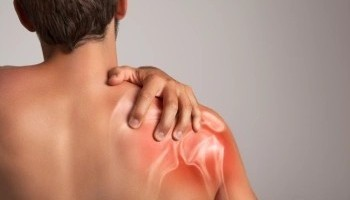
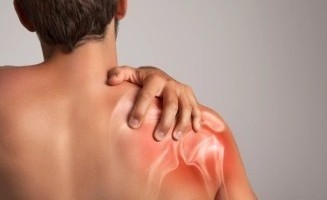
project 9.5

diff --git a/Proyecto/Informe final.md b/Proyecto/Informe final.md
@@ -57,6 +57,11 @@ Se propone un sistema basado en señales EMG y un modelo de clasificación tipo 
 ## **5. Materiales y Métodos**
 
 ### **5.1 Base de datos utilizada**
+
+<p align="center">
+    <img src="Imágenes/img_base.jpg" width='600'>
+</p>
+
 Se empleó el dataset público **A Comprehensive Dataset of Surface Electromyography and Self-Perceived Fatigue Levels for Muscle Fatigue Analysis**, que contiene señales EMG de 13 participantes realizando distintos movimientos de flexión con pesos ligeros [2].  
 Se registraron señales de bíceps braquial (derecho e izquierdo) y de las tres porciones del deltoides.
 
@@ -87,6 +92,11 @@ Todos estos parámetros se consolidaron en una matriz de datos lista para clasif
 ---
 
 ## **6. Resultados**
+
+<p align="center">
+    <img src="Imágenes/img_ML.jpg" width='600'>
+</p>
+
 De observación de los datos:
 
 - La disminución en MNF y MDF indica fatiga.  
